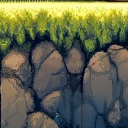
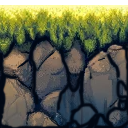
Update background images and map data

diff --git a/assets/maps/objects.tsx b/assets/maps/objects.tsx
@@ -1,5 +1,5 @@
 <?xml version="1.0" encoding="UTF-8"?>
-<tileset version="1.10" tiledversion="1.10.2" name="objects" tilewidth="1792" tileheight="1024" tilecount="36" columns="0">
+<tileset version="1.10" tiledversion="1.10.2" name="objects" tilewidth="1792" tileheight="1024" tilecount="43" columns="0">
  <grid orientation="orthogonal" width="1" height="1"/>
  <tile id="31">
   <image width="440" height="400" source="../environment/tree_2.png"/>
@@ -108,5 +108,26 @@
  </tile>
  <tile id="85">
   <image width="128" height="128" source="../backgrounds/platform_004.png"/>
+ </tile>
+ <tile id="87">
+  <image width="128" height="128" source="../backgrounds/platform_005.png"/>
+ </tile>
+ <tile id="88">
+  <image width="128" height="128" source="../backgrounds/platform_006.png"/>
+ </tile>
+ <tile id="89">
+  <image width="128" height="128" source="../backgrounds/platform_007.png"/>
+ </tile>
+ <tile id="90">
+  <image width="128" height="128" source="../backgrounds/platform_008.png"/>
+ </tile>
+ <tile id="91">
+  <image width="128" height="128" source="../backgrounds/platform_009.png"/>
+ </tile>
+ <tile id="92">
+  <image width="128" height="128" source="../backgrounds/platform_010.png"/>
+ </tile>
+ <tile id="93">
+  <image width="128" height="128" source="../backgrounds/platform_011.png"/>
  </tile>
 </tileset>
